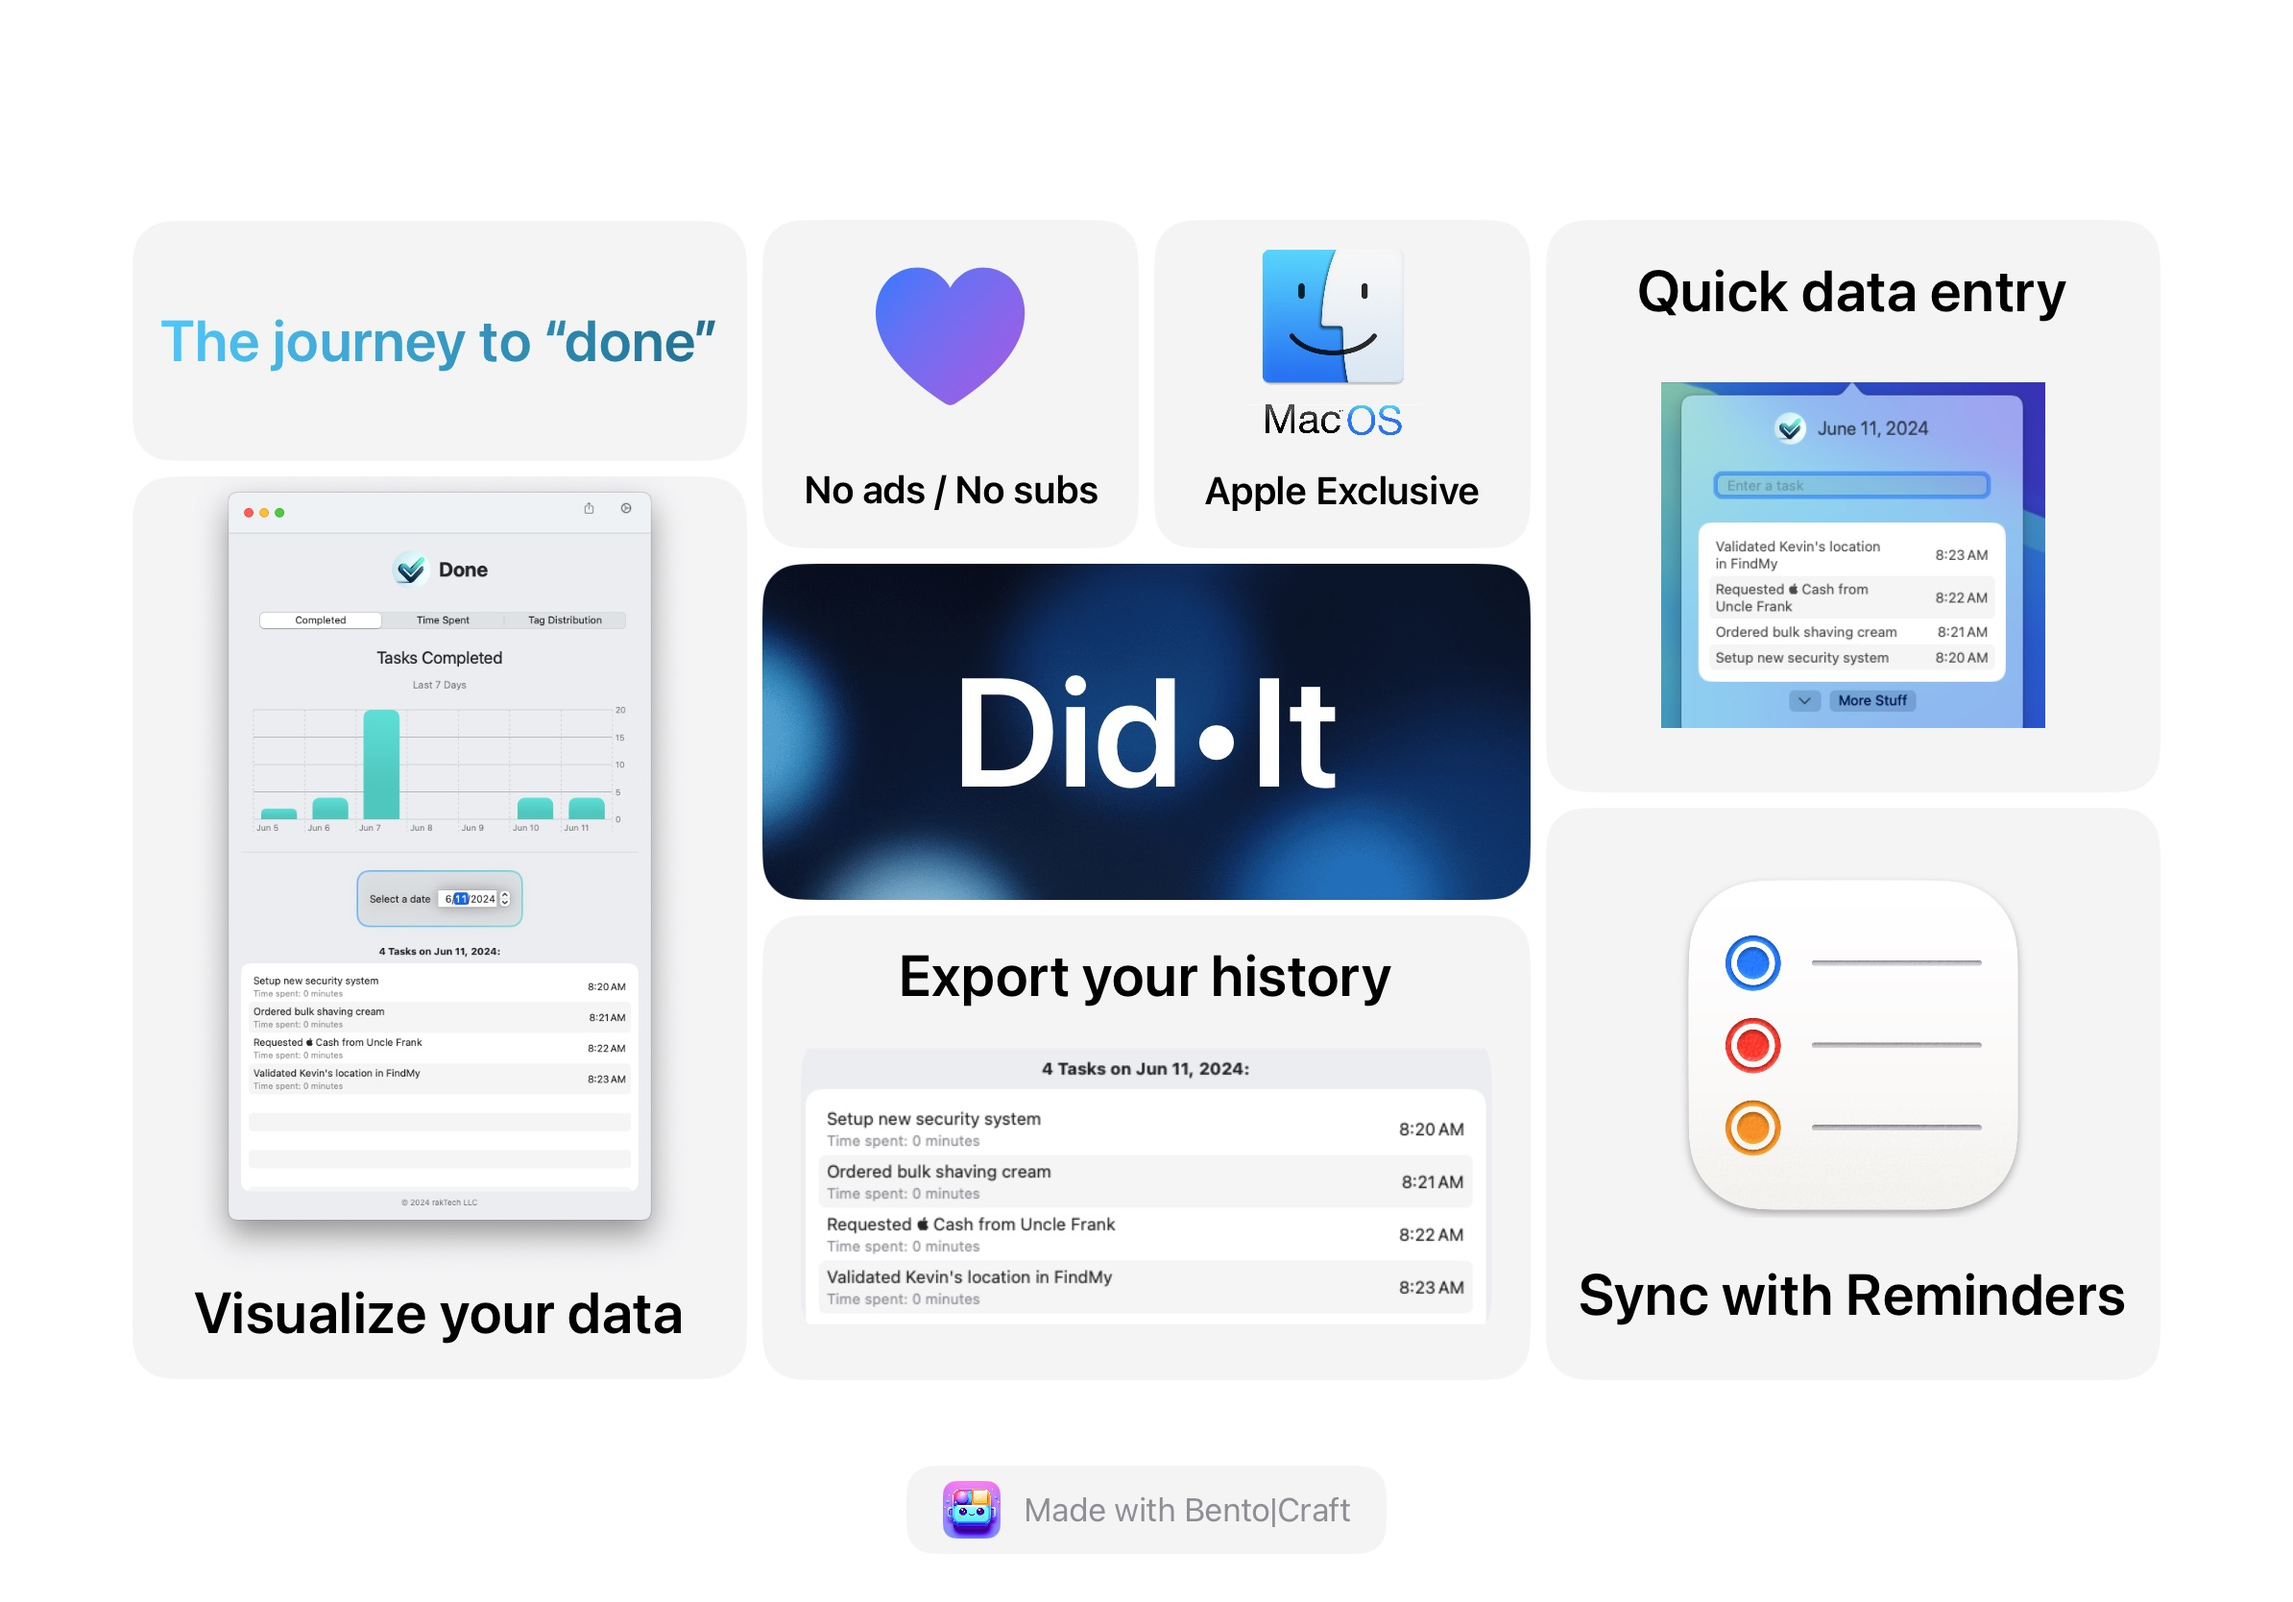
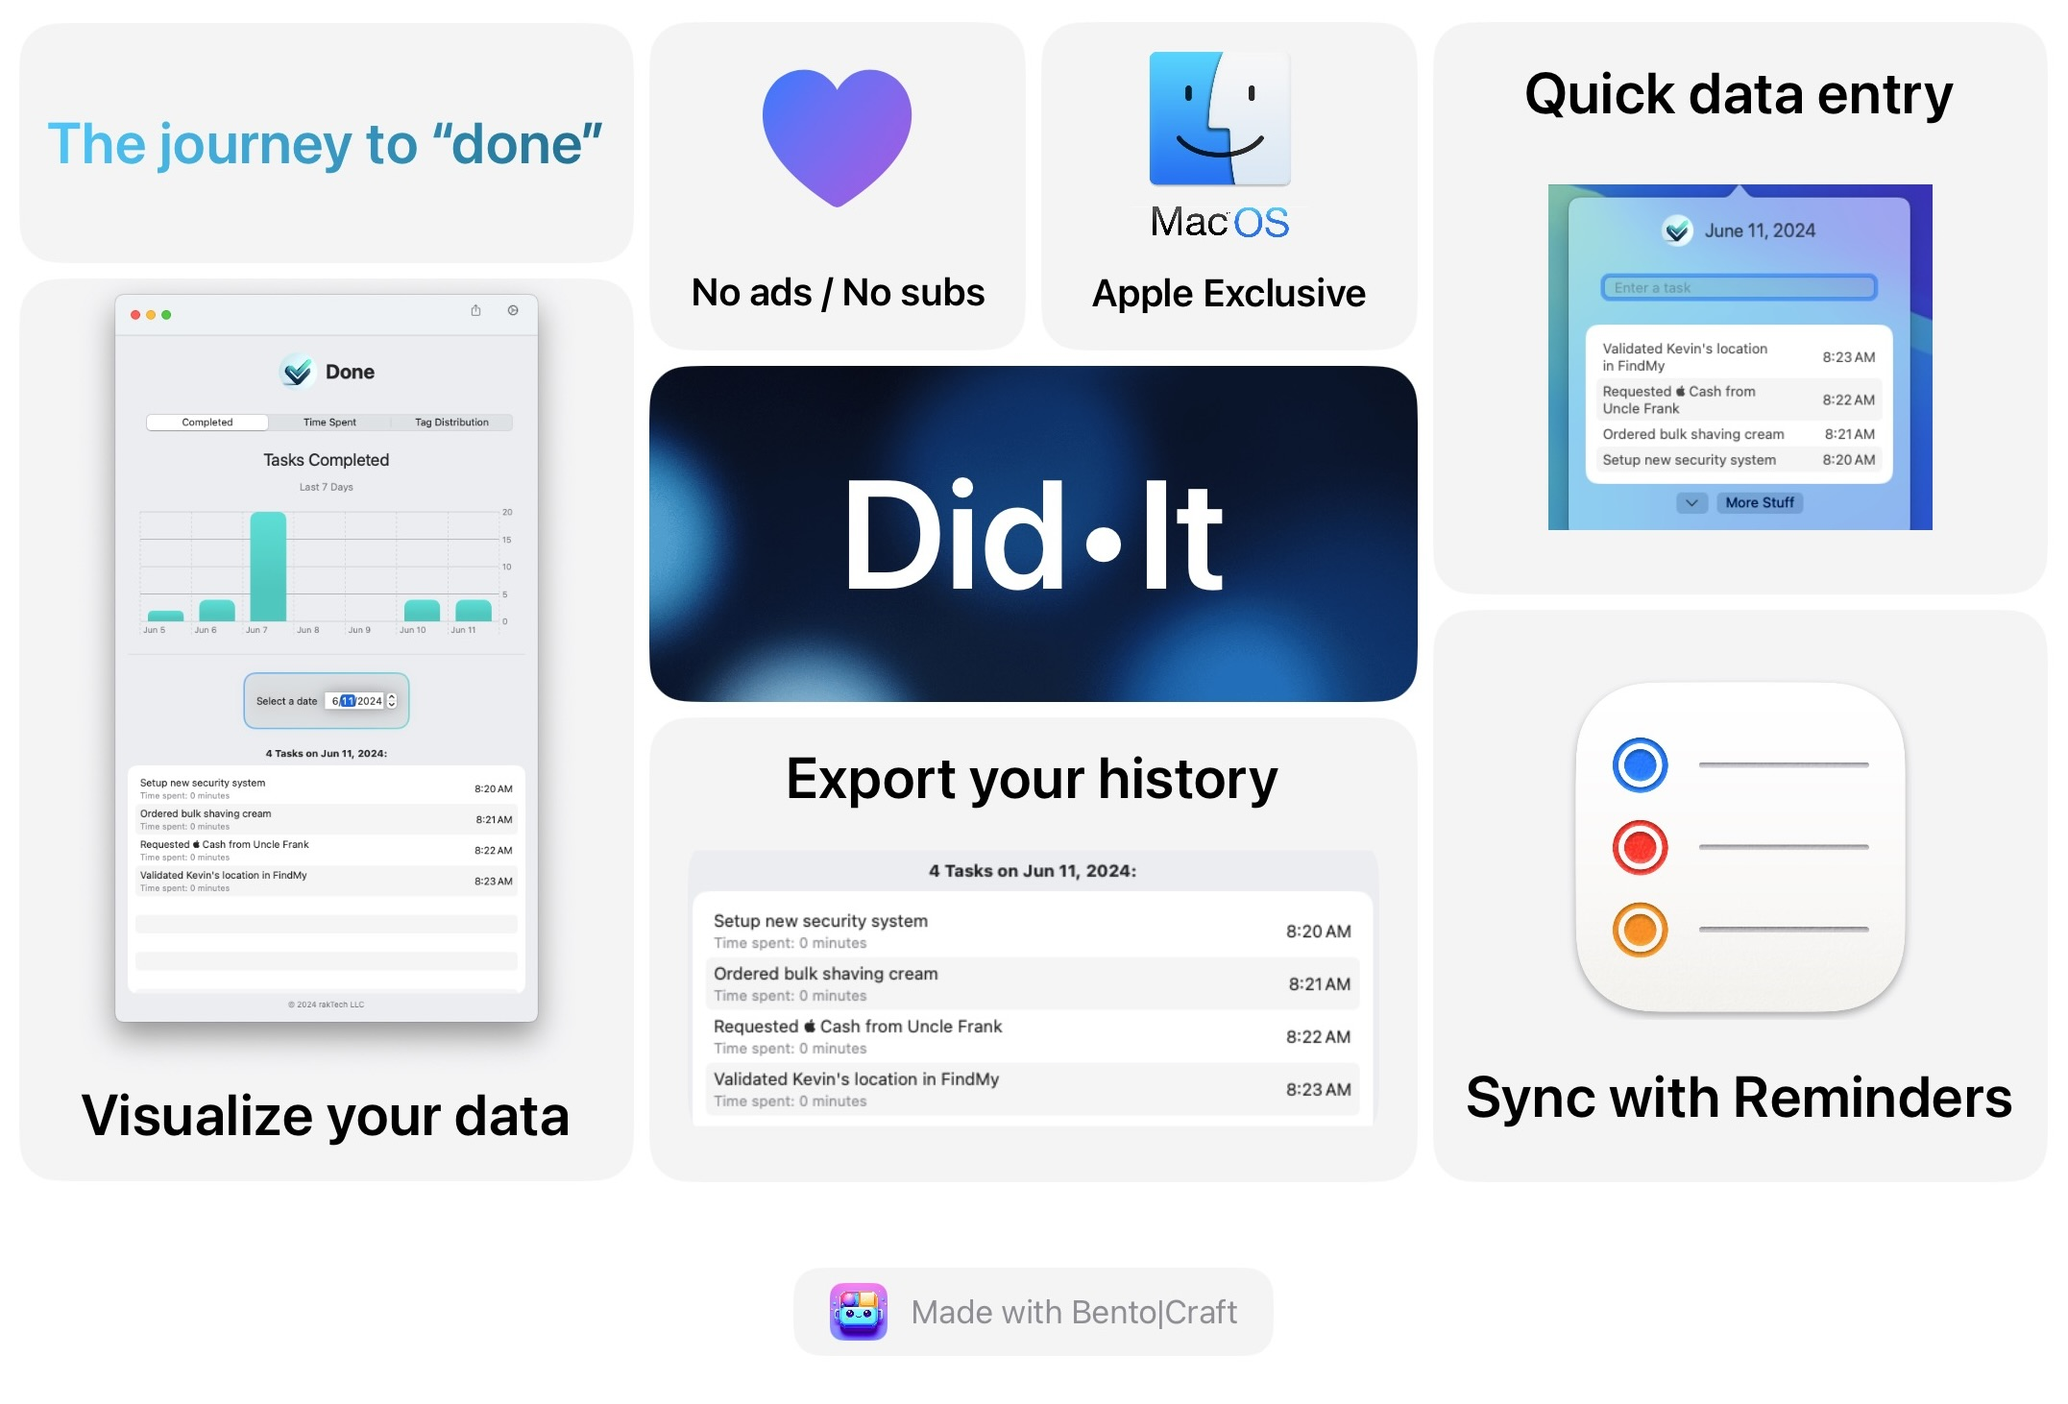
new post

diff --git a/_posts/2024/2024-11-15-done-rebrand.md b/_posts/2024/2024-11-15-done-rebrand.md
@@ -1,0 +1,31 @@
+---
+layout: post
+title: "Done App Announcement"
+categories: [Apple, macOS, Productivity]
+image: assets/images/DoneApp/bento.JPG
+read_time: false
+featured: false
+date: 2024-11-15
+author: Ryan Klumph
+---
+Today I'm thrilled to share some exciting updates related to my macOS menu bar app, now rebranded as **Did•It**
+
+#### What is Did•It?
+*Did•It* (formerly *Done*) is a lightweight yet indepsensible macOS menu bar app desigend to help track tasks you've already completed. Unlike traditional to-do lists, *Did•It* focuses on creating an archive of tasks you've accomplished. Whether you're tracking what you've done related to a work project, indie development, customer initiatives, or personal achievements, *Did•It* makes it simple to log and review your completed work.  
+
+Users love its simplicity and configurable options like completed Apple Reminders sync, default time assignment, and task entry reminders. Whether they bulk-add tasks from recent memory using the menu bar drop down, or they automatically sync their completed tasks from Apple Reminders, users find that *Did•It* is the easiest way to record and review their work. It's the *"not a todo app"* that shows you just how much you've accomplished.
+
+![iPhone Mirroring](/assets/images/DoneApp/hiro-review.png){:width="50%"} 
+
+#### A New Name for a Refined Purpose
+*Done* is now *`Did•It`*. This rebrand represents more than just an incremental update — it captures the essence of what the app is all about: easily capturing your accomplishments and giving you a simple, elegant way to track what you’ve achieved. With this change, *Did•It* stands out in the market, reflecting its unique focus and purpose. 
+
+#### Free for Everyone
+In a significant shift, *Did•It* is now **available as a free download** for all macOS users. Previously offered as a one-time purchase, this update removes any barriers to entry, ensuring everyone can benefit from easily tracking their completed tasks and accomplishments.
+
+While *Did•It* is free, it remains entirely *ad-free* and *subscription-free* — no strings attached. For those who find the app valuable, an optional “Buy Me a Coffee” link is available, providing a simple way to support its development and show appreciation.
+
+#### What's Next?
+These updates mark the beginning of a new chapter for *Did•It*. Build `2024.11` will be available on the Mac App Store soon and includes improved CSV export, rebranded assets, and will be free for everyone. I’m committed to continuing its evolution and ensuring it remains an indispensable tool for its users.
+
+[Download **Did•It**](https://apps.apple.com/us/app/done-not-a-to-do-app/id6503087781?mt=12) today and start keeping track of your daily accomplishments.
